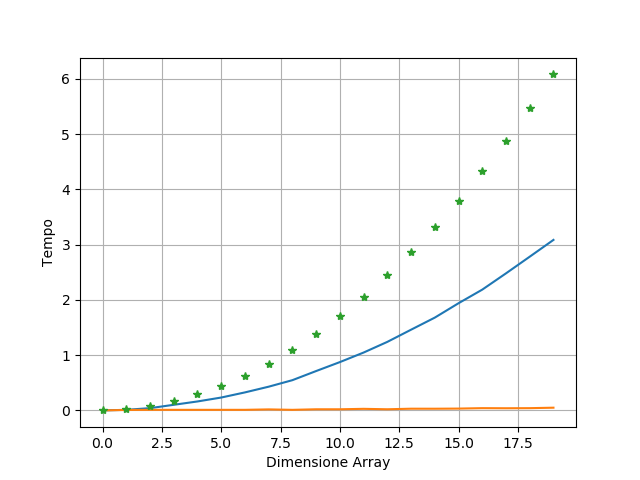
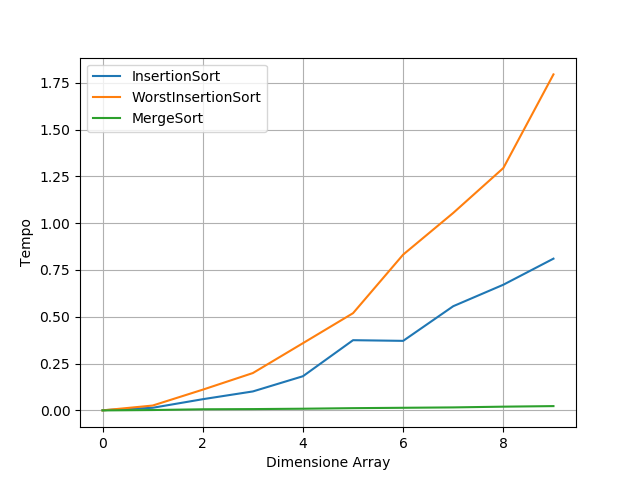
Fixed graphic doing some math!

diff --git a/Main.py b/Main.py
@@ -11,8 +11,9 @@ insertionTimeMigliore = []
 insertionTimePeggiore = []
 insertionTime = []
 mergeSortTime = []
-for j in range(100, 10000, 50):
-    print("Parliamo di ", j, "/", 10000, "%", j/100, end=' e ci mette ')
+dimension = 5000
+for j in range(100, dimension, 500):
+    print("Parliamo di ", j, "/", dimension, "%", j/50, end=' e ci mette ')
     tempoTempo = time.time()
     A = []
     A = MakeArray.randomArray(A, j)
@@ -43,9 +44,10 @@ for j in range(100, 10000, 50):
 
 t = np.arange(0, len(mergeSortTime))
 print(100, "%!!!!!!!")
-plt.plot(t, insertionTime)
-plt.plot(t, mergeSortTime)
-plt.plot(t, insertionTimePeggiore, linestyle='', marker='*')
+plt.plot(t, insertionTime, label="InsertionSort")
+plt.plot(t, insertionTimePeggiore, label="WorstInsertionSort")
+plt.plot(t, mergeSortTime, label="MergeSort")
+plt.legend()
 plt.xlabel('Dimensione Array')
 plt.ylabel('Tempo')
 plt.grid()
@@ -53,19 +55,3 @@ plt.draw()
 plt.savefig('grafico.png', dpi=100)
 plt.show()
 print("Ci abbiamo impiegato ", time.time() - tempoTotale)
-
-'''
-import numpy as np import matplotlib.pyplot as plt
-# Seno e coseno 
-x = np.arange(0, 3 * np.pi, 0.1) 
-y_sin = np.sin(x) 
-y_cos = np.cos(x)
-# usiamo matplotlib 
-plt.plot(x, y_sin) 
-plt.plot(x, y_cos) 
-plt.xlabel(’x axis label’) 
-plt.ylabel(’y axis label’) 
-plt.title(’Sine and Cosine’) 
-plt.legend([’Sine’, ’Cosine’]) 
-plt.show(
-'''

diff --git a/provo sto numpcoso.py b/provo sto numpcoso.py
@@ -1,4 +1,4 @@
-import matplotlib
+# import matplotlib
 import matplotlib.pyplot as plt
 import numpy as np
 
